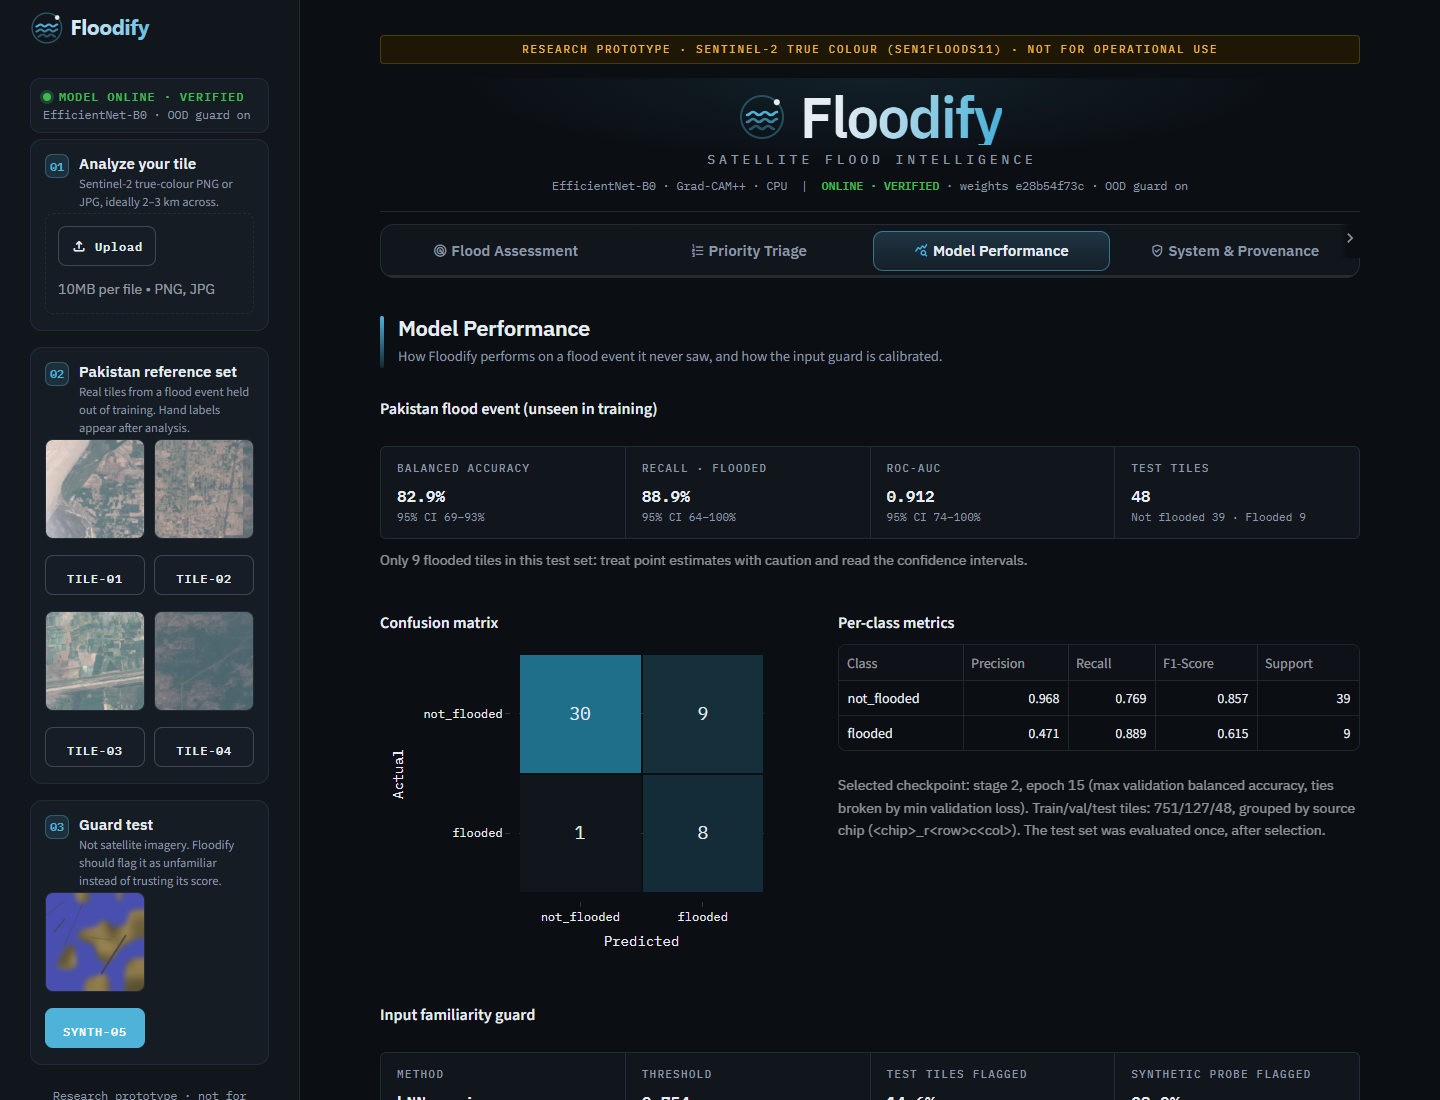
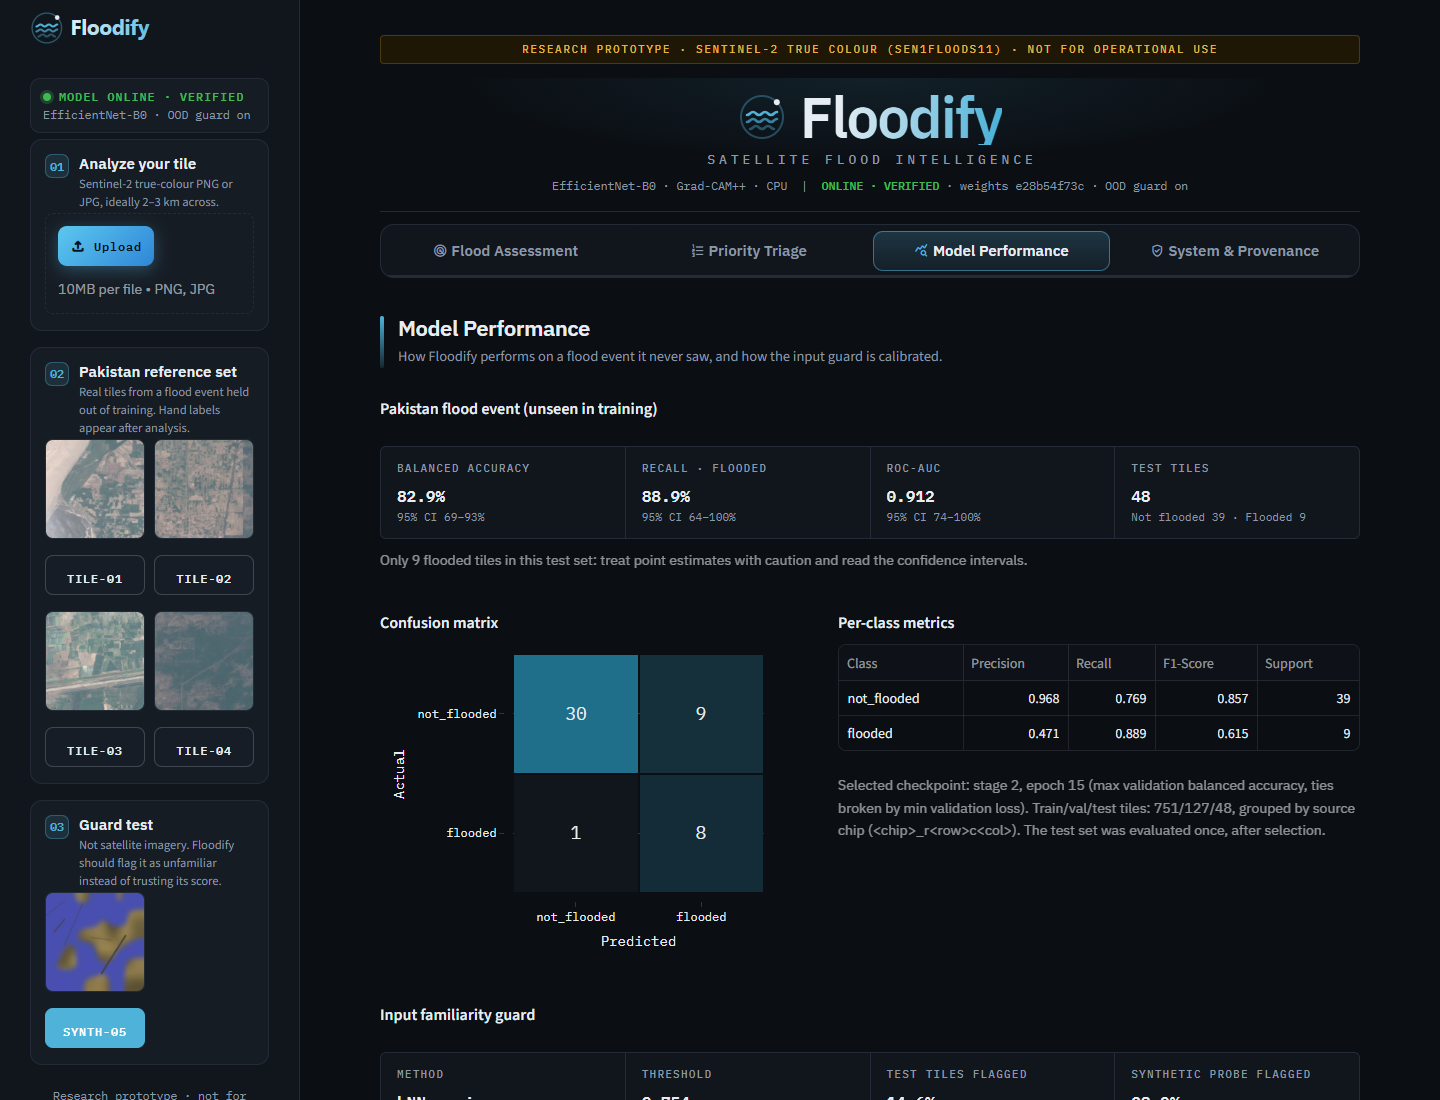
Gradient styling for upload and evidence export buttons
- Upload buttons (sidebar and Priority Triage): blue gradient with glow
- Export evidence package: green-to-blue gradient, taller, with glow
- Hover lift on both; screenshots recaptured

diff --git a/app.py b/app.py
@@ -194,6 +194,22 @@ color:var(--accent);background:rgba(79,179,217,.12);border:1px solid rgba(79,179
 [data-testid="stSidebar"] button p{font:600 .78rem var(--mono);letter-spacing:.04em}
 .sb-foot{font:.72rem/1.6 var(--mono);color:var(--muted);text-align:center;padding:6px 0 10px}
 .sb-foot a{color:var(--accent);text-decoration:none}
+/* Call-to-action buttons: upload (blue gradient) and evidence export (green-to-blue gradient). */
+.st-key-single_upload [data-testid="stFileUploaderDropzone"] button,
+.st-key-batch_upload [data-testid="stFileUploaderDropzone"] button{
+background:linear-gradient(135deg,#5CC8F0 0%,#2F86D6 100%);color:#06131C;border:0;border-radius:9px;
+box-shadow:0 4px 16px rgba(79,179,217,.35);transition:transform .15s ease,box-shadow .15s ease,filter .15s ease}
+.st-key-single_upload [data-testid="stFileUploaderDropzone"] button:hover,
+.st-key-batch_upload [data-testid="stFileUploaderDropzone"] button:hover{
+filter:brightness(1.08);transform:translateY(-1px);box-shadow:0 6px 22px rgba(79,179,217,.5);color:#06131C}
+.st-key-single_upload [data-testid="stFileUploaderDropzone"] button *,
+.st-key-batch_upload [data-testid="stFileUploaderDropzone"] button *{color:#06131C !important;font-weight:700}
+.st-key-export_evidence button{
+background:linear-gradient(120deg,#3FB950 0%,#2BA89A 50%,#4FB3D9 100%);color:#04110A;border:0;border-radius:10px;
+min-height:3rem;box-shadow:0 6px 22px rgba(63,185,80,.28);transition:transform .15s ease,box-shadow .15s ease,filter .15s ease}
+.st-key-export_evidence button:hover{filter:brightness(1.07);transform:translateY(-1px);
+box-shadow:0 8px 28px rgba(63,185,80,.42);color:#04110A}
+.st-key-export_evidence button *{color:#04110A !important;font-weight:700;font-size:.95rem}
 /* Keep the sidebar's 2-up tile grid on narrow screens (Streamlit stacks columns below 640px). */
 [data-testid="stSidebar"] [data-testid="stHorizontalBlock"]{flex-wrap:nowrap;gap:.6rem}
 [data-testid="stSidebar"] [data-testid="stColumn"]{min-width:0 !important;flex:1 1 0 !important;width:auto !important}
@@ -633,6 +649,7 @@ def render_evidence_download(r: dict, name: str, loaded: LoadedCheckpoint) -> No
         mime="application/zip",
         icon=":material/download:",
         width="stretch",
+        key="export_evidence",
         on_click="ignore",  # exporting must not rerun the app or reset review state
     )
 
